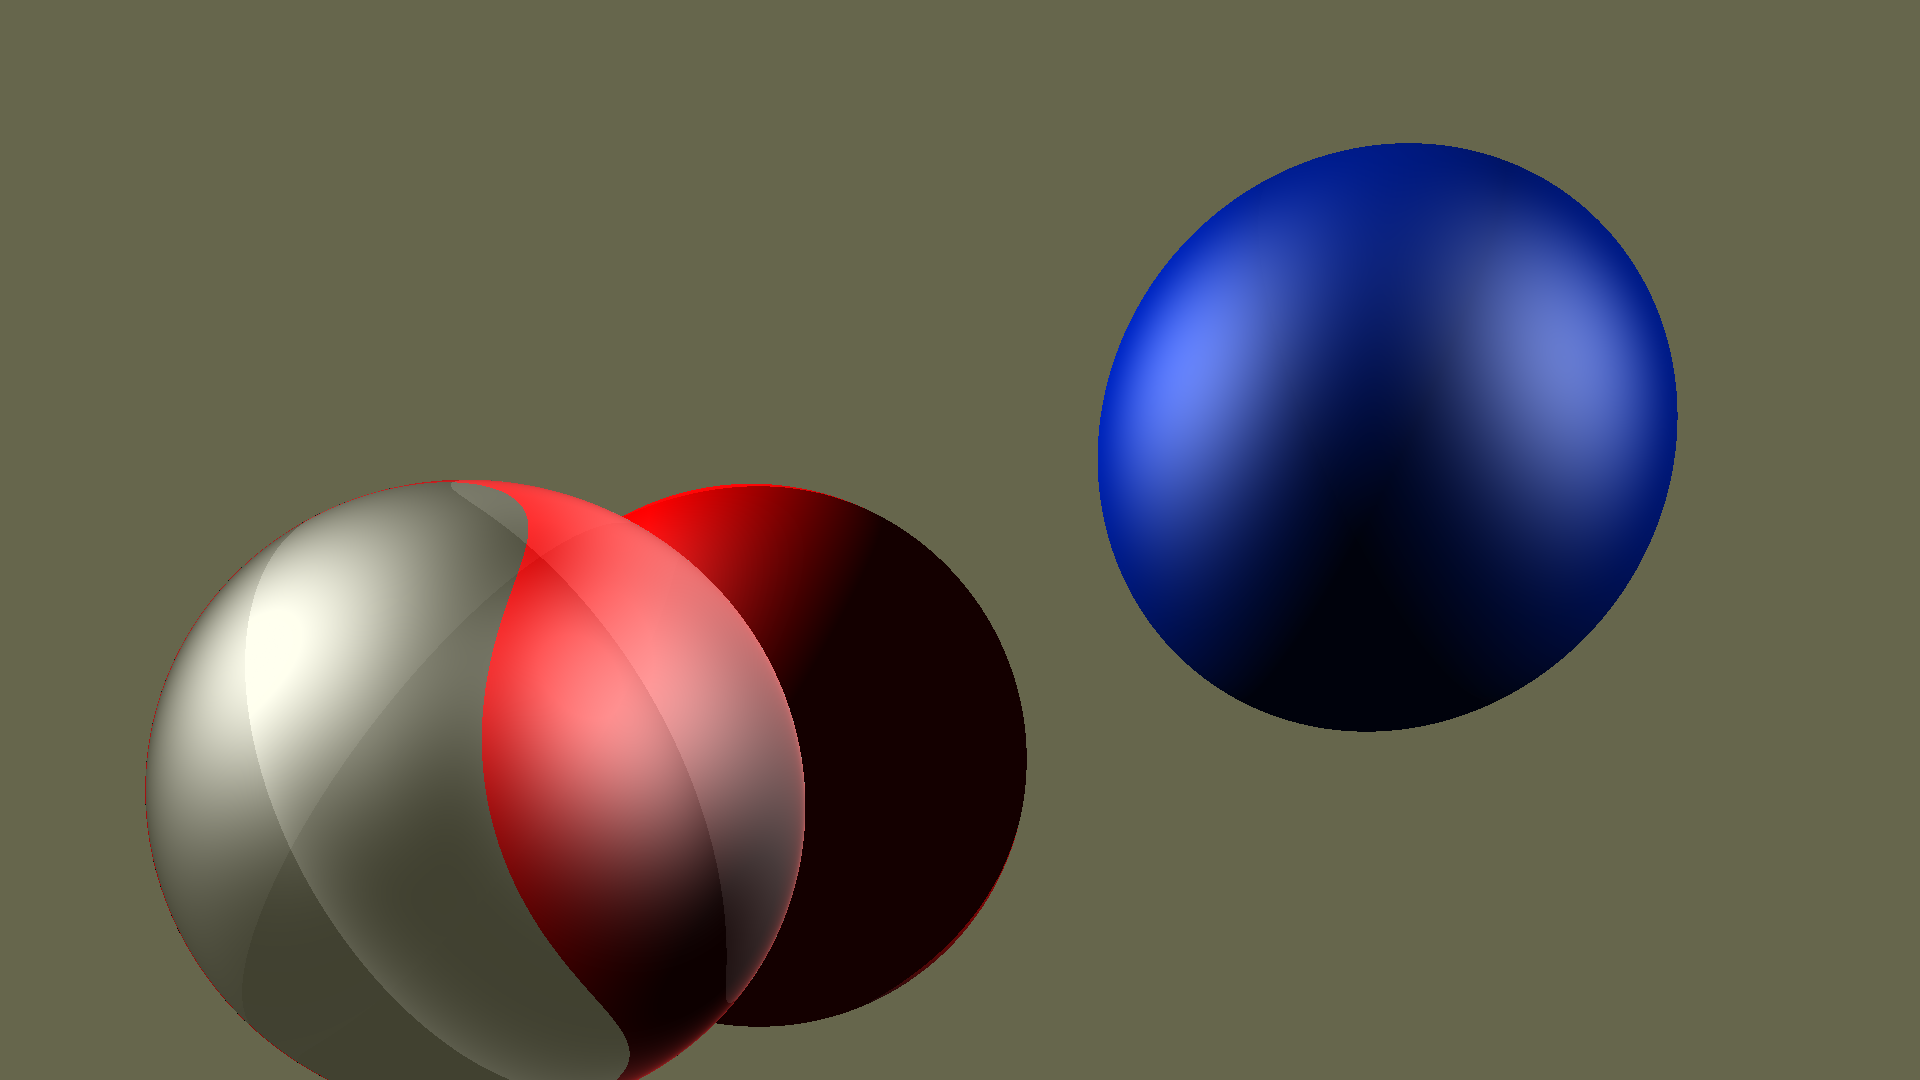
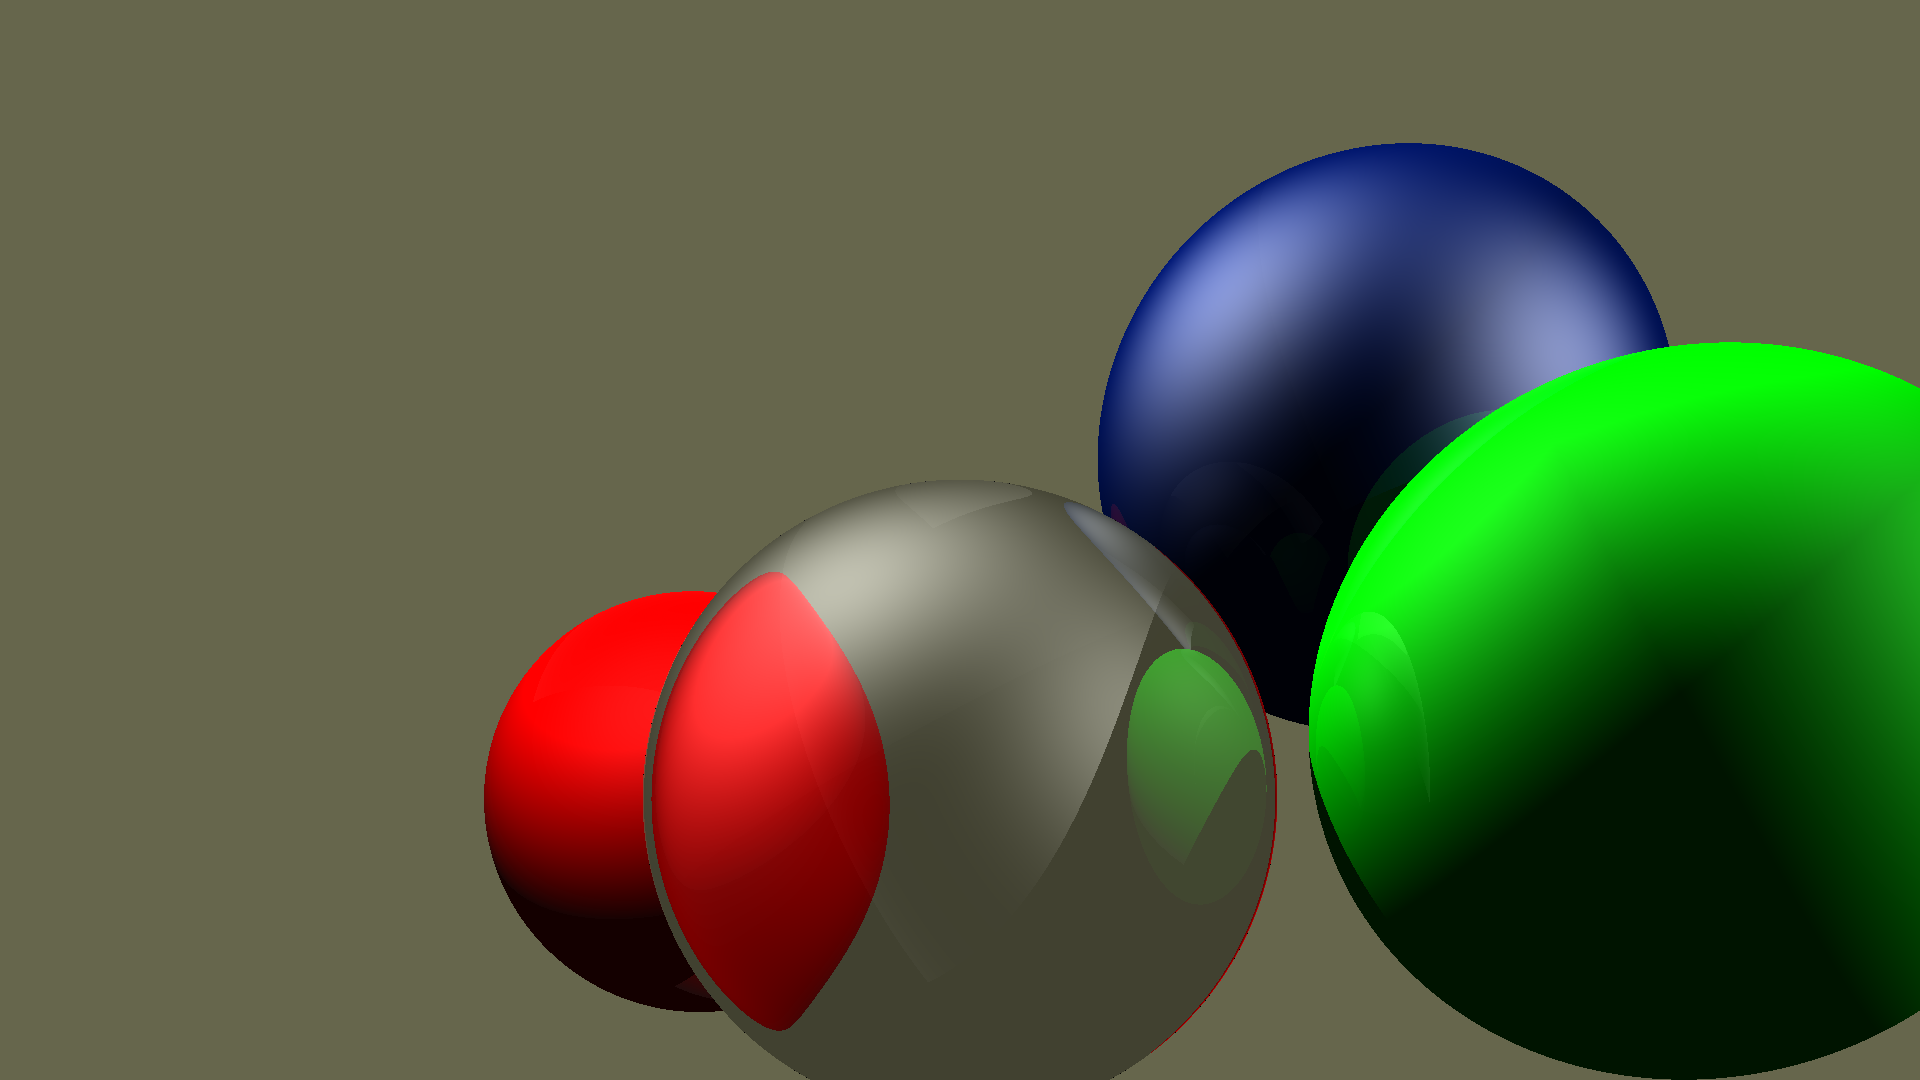
Implement reflectivity

diff --git a/src/lib.rs b/src/lib.rs
@@ -3,7 +3,7 @@ use std::ops::{Add, Mul, Neg, Sub};
 
 use rayon::prelude::*;
 
-use crate::util::{snellius, create_reflection_dir};
+use crate::util::{snellius, create_reflection_dir, create_reflection};
 use crate::HitResult::{NoHit, HitDetected, OutsideSphere};
 
 mod util;
@@ -50,10 +50,11 @@ pub struct Sphere {
 #[derive(Debug, Clone, Copy)]
 pub struct Material {
     pub color: Vec3f,
-    pub ref_index: f64,
-    pub translucency: f64,
     pub diffuse: f64,
     pub specular: f64,
+    pub reflectivity: f64,
+    pub ref_index: f64,
+    pub translucency: f64,
 }
 
 #[derive(Debug)]
@@ -65,6 +66,7 @@ pub struct Hit {
 #[derive(Debug)]
 pub struct Light {
     position: Vec3f,
+    color: Vec3f,
     intensity: f64,
 }
 
@@ -92,6 +94,10 @@ impl Color {
 impl Vec3f {
     pub fn new(x: f64, y: f64, z: f64) -> Vec3f {
         Vec3f { x, y, z }
+    }
+
+    pub fn null() -> Vec3f {
+        Vec3f::new(0., 0., 0.)
     }
 
     #[inline]
@@ -182,11 +188,12 @@ impl Neg for Vec3f {
 
 impl Material {
     pub fn new_diffuse(color: Vec3f) -> Self {
-        Material { color, translucency: 0., ref_index: 1., diffuse: 1.0, specular: 0.0}
+        Material { color, translucency: 0., ref_index: 1., diffuse: 1.0, specular: 0.0,
+        reflectivity: 0.}
     }
 
     pub fn new(color: Vec3f, specular: f64, translucency: f64, n_index: f64) -> Self {
-        Material { color, translucency, ref_index: n_index, diffuse: 1.0, specular}
+        Material { color, translucency, ref_index: n_index, diffuse: 1.0, specular, reflectivity: 0.}
     }
 
     pub fn default() -> Self {
@@ -326,10 +333,10 @@ impl Scene {
 
     //Takes the hitpoint and the direction of the ray that produced the hit
     #[inline]
-    fn diffuse_specular_intensity(&self, hit: &Hit, ray_direction: &Vec3f) -> (f64, f64) {
+    fn phong_color(&self, hit: &Hit, ray_direction: &Vec3f, material: &Material) -> Vec3f {
         // Diffuse light
         let mut diffuse_light_intensity: f64 = 0.1;
-        let mut specular_light_intensity: f64 = 0.0;
+        let mut specular_light: Vec3f = Vec3f::null();
         for light in self.lights.iter() {
             let light_dir = light.position.minus(&hit.point).normalize();
             let shadow_orig = match light_dir.dot(&hit.normal) > 0. {
@@ -342,33 +349,39 @@ impl Scene {
 
             if is_hit { continue; }
             let reflection = create_reflection_dir(&-light_dir, &hit.normal);
-            specular_light_intensity += reflection.dot(&ray_direction).abs().powf(3.);
+            specular_light = specular_light + light.color * reflection.dot(&ray_direction).abs().powf(3.);
             // dbg!(specular_light_intensity);
             //Calculate specular highlight
             diffuse_light_intensity +=
                 light.intensity * f64::max(0., light_dir.dot(&hit.normal));
         }
 
-        (diffuse_light_intensity, specular_light_intensity)
+        material.color * material.diffuse * diffuse_light_intensity+
+        material.specular * specular_light
+        // (diffuse_light_intensity, specular_light_intensity)
     }
 
+    pub fn cast_ray(&self, ray: &Ray, max_depth: u32) -> Vec3f {
+        return match self.cast_ray_internal(ray, max_depth) {
+            Some(color) => color,
+            None => Vec3f::new(0.4, 0.4, 0.3), //Default background color
+        }
+    }
 
     /// Returns the color of the pixel the ray originates from
-    pub fn cast_ray(&self, ray: &Ray, max_depth: u32) -> Vec3f {
+    #[inline]
+    pub fn cast_ray_internal(&self, ray: &Ray, max_depth: u32) -> Option<Vec3f> {
         let hit_params = self.get_intersection(ray);
 
         return match &hit_params {
             Some(params) => {
                 let material = &params.sphere.material;
                 let hit = params.to_hit(ray);
-                let material_color = &material.color;
-                let light_color = Vec3f::new(1.0, 1.0, 1.0);
                 //Diffuse light
-                let (diffuse_light_intensity, specular_light_intensity) =
-                    self.diffuse_specular_intensity(&hit, &ray.direction);
-                let mut color =
-                    material_color.times(diffuse_light_intensity) * material.diffuse +
-                    light_color.times(specular_light_intensity) * material.specular;
+                let mut color = self.phong_color(
+                    &hit,
+                &ray.direction,
+                &material);
 
                 // Refracted Light
                 if params.sphere.material.translucency > 0. && max_depth > 0 {
@@ -381,16 +394,33 @@ impl Scene {
 
                     if new_ray.is_none() { // Total reflection. No reflection implemented up to now
                         println!("None:");
-                        return Vec3f::new(1.0, 1., 1.0)
+                        // return Vec3f::new(1.0, 1., 1.0)
+                         return None
                     }
 
                     let new_ray = new_ray.unwrap();
                     let ray_color = self.cast_ray(&new_ray, max_depth - 1);
                     color = color + material.translucency * ray_color;
                 }
-                color
+                //Reflected light
+                if params.sphere.material.reflectivity > 0. && max_depth > 0 {
+                    let new_ray = create_reflection(
+                        ray.direction,
+                        hit.normal,
+                         hit.point
+                    );
+                    let ray_color = self.cast_ray_internal(&new_ray, max_depth -1);
+                    if ray_color.is_some() {
+                        color = color + material.reflectivity * ray_color.unwrap()
+                    }
+                    // else {
+                    //     color = color + material.reflectivity * Vec3f::new(1., 1., 1.).normalize()
+                    // }
+                }
+                Some(color)
             }
-            None => Vec3f::new(0.4, 0.4, 0.3), //Default background color
+            None => None//Vec3f::new(0.4, 0.4, 0.3), //Default background color
+            // None => Vec3f::new(0.4, 0.4, 0.3), //Default background color
         }
     }
 
@@ -422,7 +452,7 @@ impl Scene {
 
 impl Light {
     pub fn new(position: Vec3f, intensity: f64) -> Self {
-        Light { position, intensity }
+        Light { position, intensity, color: Vec3f::new(1., 1., 1.).normalize() }
     }
 }
 

diff --git a/src/main.rs b/src/main.rs
@@ -12,13 +12,15 @@ fn main() {
         translucency: 0.8,
         ref_index: 1.05,
         specular: 0.5,
+        reflectivity: 0.3
     };
     let _spec1 = Material {
         color: Vec3f::new(0.0, 0.2, 1.0).normalize(),
-        diffuse: 0.5,
+        diffuse: 0.3,
         translucency: 0.0,
         ref_index: 1.,
-        specular: 0.4,
+        specular: 0.92,
+        reflectivity: 0.08
     };
     let _spec2 = Material {
         color: Vec3f::new(1.0, 0.0, 0.0).normalize(),
@@ -26,22 +28,40 @@ fn main() {
         translucency: 0.0,
         ref_index: 1.,
         specular: 0.2,
+        reflectivity: 0.
+    };
+
+    let _spec3 = Material {
+        color: Vec3f::new(0.0, 1.0, 0.0).normalize(),
+        diffuse: 0.8,
+        translucency: 0.0,
+        ref_index: 1.,
+        specular: 0.2,
+        reflectivity: 0.2
+    };
+    let _reflective = Material {
+        color: Vec3f::new(1., 1., 1.).normalize(),
+        diffuse: 0.,
+        translucency: 0.,
+        ref_index: 1.,
+        specular: 0.5,
+        reflectivity: 0.5
     };
     let _spheres = vec![
         Sphere {
             radius: 4.0,
-            center: Vec3f::new(-3., 3., -25.),
+            center: Vec3f::new(-5., 3., -32.),
             material: _spec2,
         },
         Sphere {
             radius: 3.0,
-            center: Vec3f::new(-4.5, 1.5, -16.),
+            center: Vec3f::new(0., 1.5, -16.),
             material: _glass,
         },
         Sphere { radius: 3., center: Vec3f::new(4.5, 5.5, -18.), material: _spec1 },
-        //         Sphere { radius: 4., center: Vec3f::new(7., 5., -16.), material: Material::default() },
+        Sphere { radius: 3., center: Vec3f::new(6., 2., -14.), material: _spec3 },
     ];
-    let _lights = vec![Light::new(Vec3f::new(-30., 20., -16.), 1.5),
+    let _lights = vec![Light::new(Vec3f::new(-10., 20., -16.), 1.5),
                         Light::new(Vec3f::new(30., 15., 0.), 1.)];
     let scene = Scene::new(_spheres, _lights);
     let frame_buffer = scene.render();
